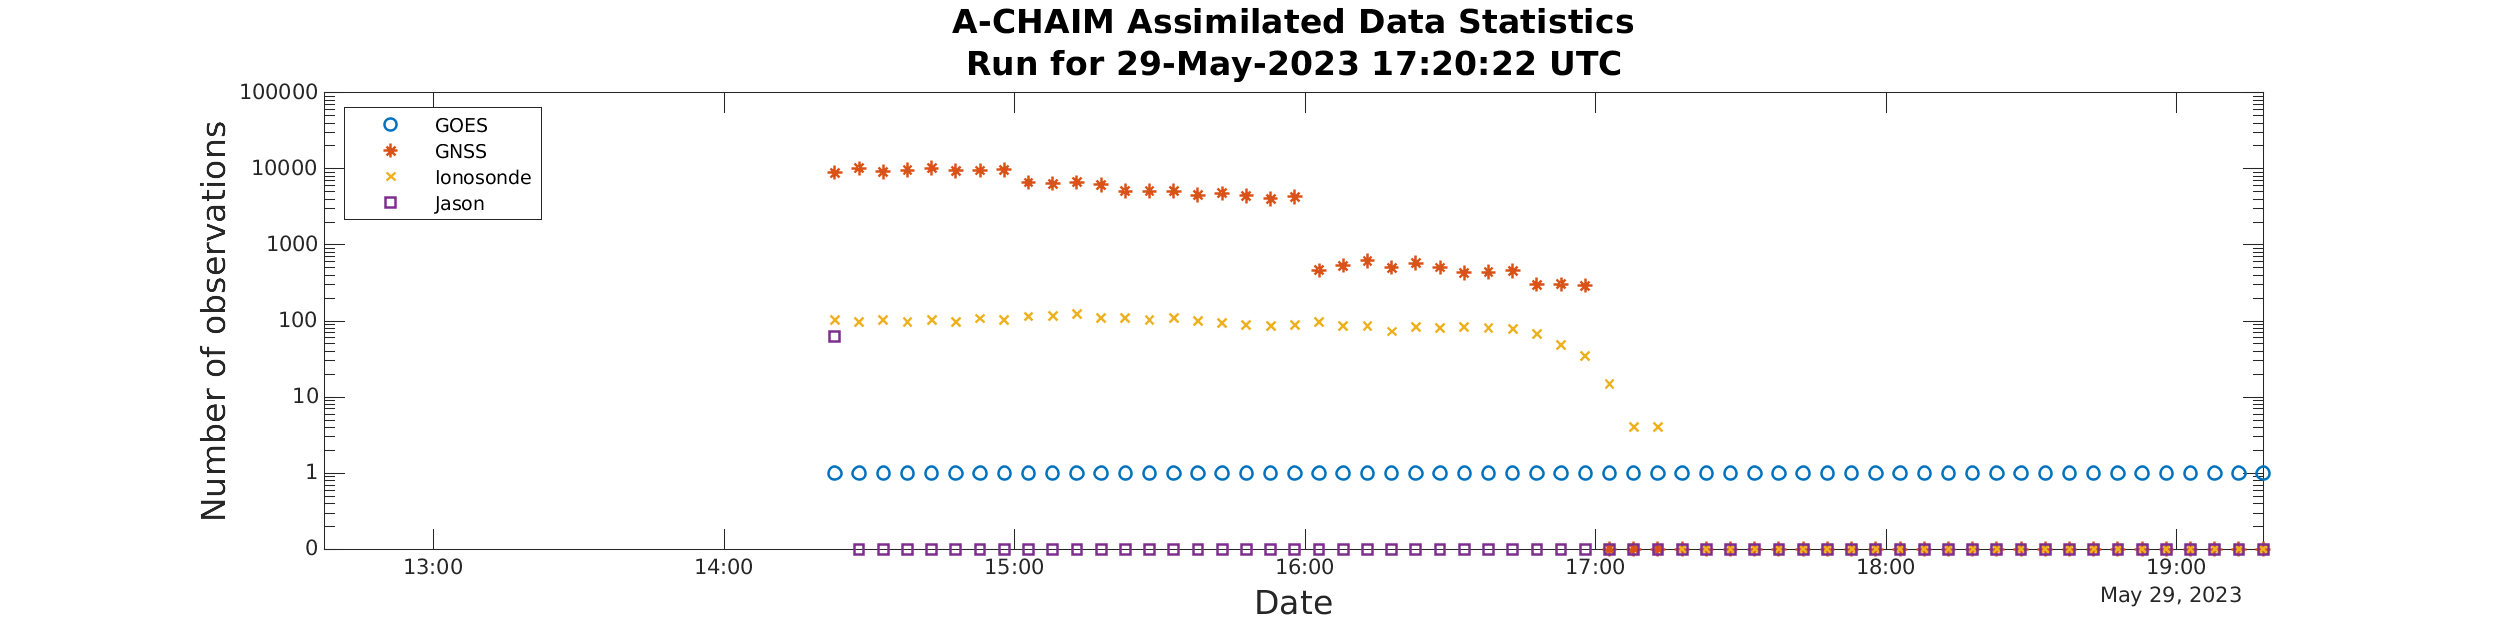
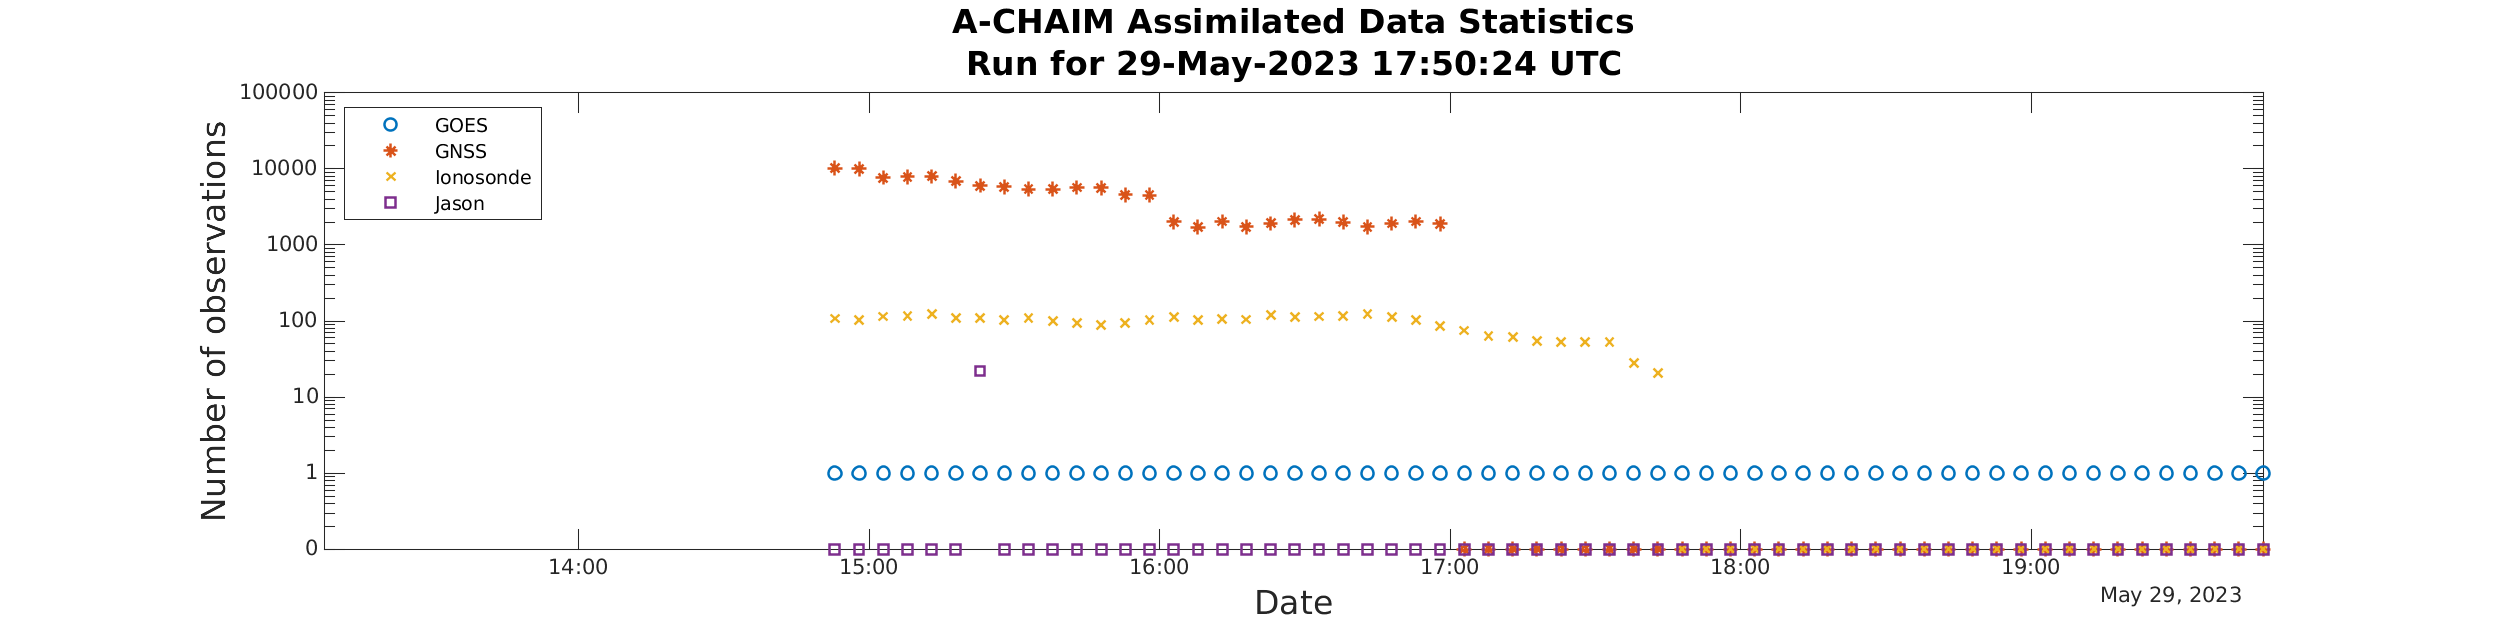
update 2023-05-29 18:15:19

diff --git a/_posts/2023-05-29-17-50-24.md b/_posts/2023-05-29-17-50-24.md
@@ -1,8 +1,8 @@
 ---
 layout: post
-title: "2023-05-29 17:20:22"
+title: "2023-05-29 17:50:24"
 subtitle: "ModelData Issues: 2; A-CHAIM System Issues: 2"
-
+permalink: /latest/
 ---
 
 ![]({{ "/assets/img/achaimDataStatsShort-2314917.png" | relative_url }})
@@ -17,10 +17,10 @@ subtitle: "ModelData Issues: 2; A-CHAIM System Issues: 2"
 ### ModelData Issues:  
   
 {: .box-warning}  
- ModelData report for 29-May-2023 17:20:09   
+ ModelData report for 29-May-2023 17:50:11   
  /home/chaim/ACHAIM_SERVER/A-CHAIM/modelData/2023/149/17/modelData.mat   
- 0% of all possible stations for KASI were downloaded. x3950   
- 0% of all possible stations for CHAIN were downloaded. x2911   
+ 0% of all possible stations for KASI were downloaded. x3951   
+ 0% of all possible stations for CHAIN were downloaded. x2912   
   
 ### A-CHAIM System Issues:  
   
